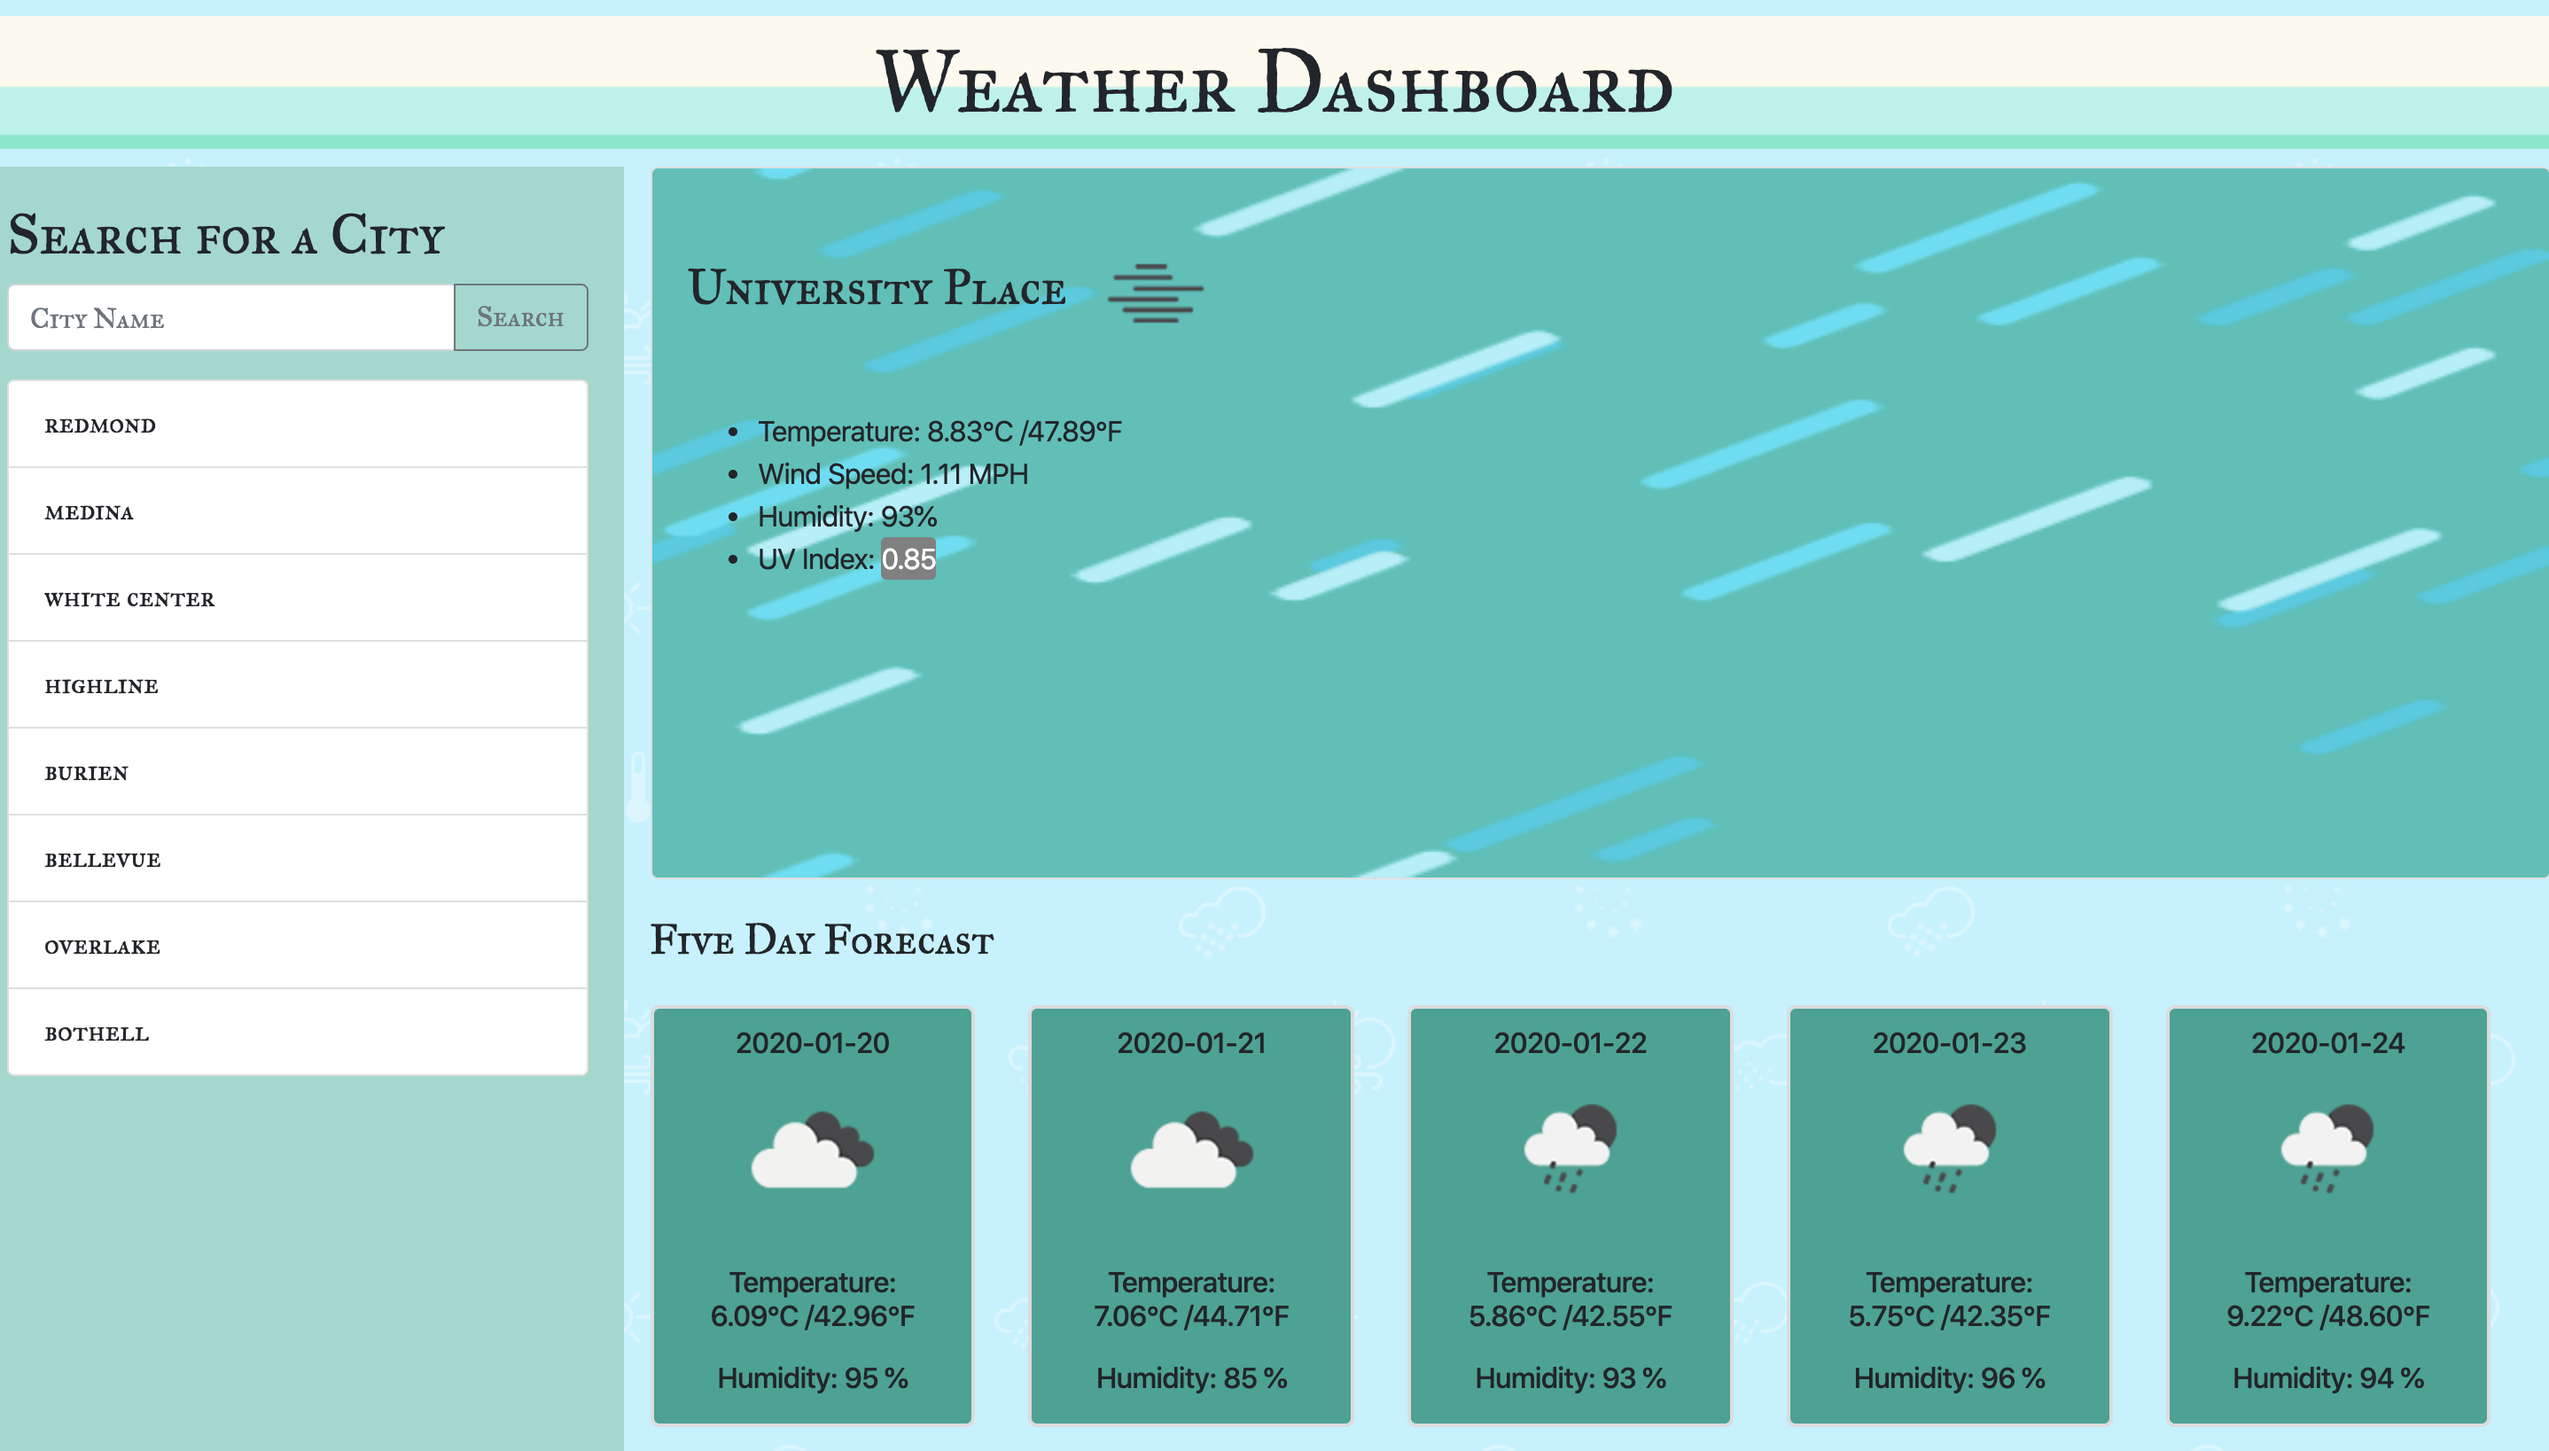
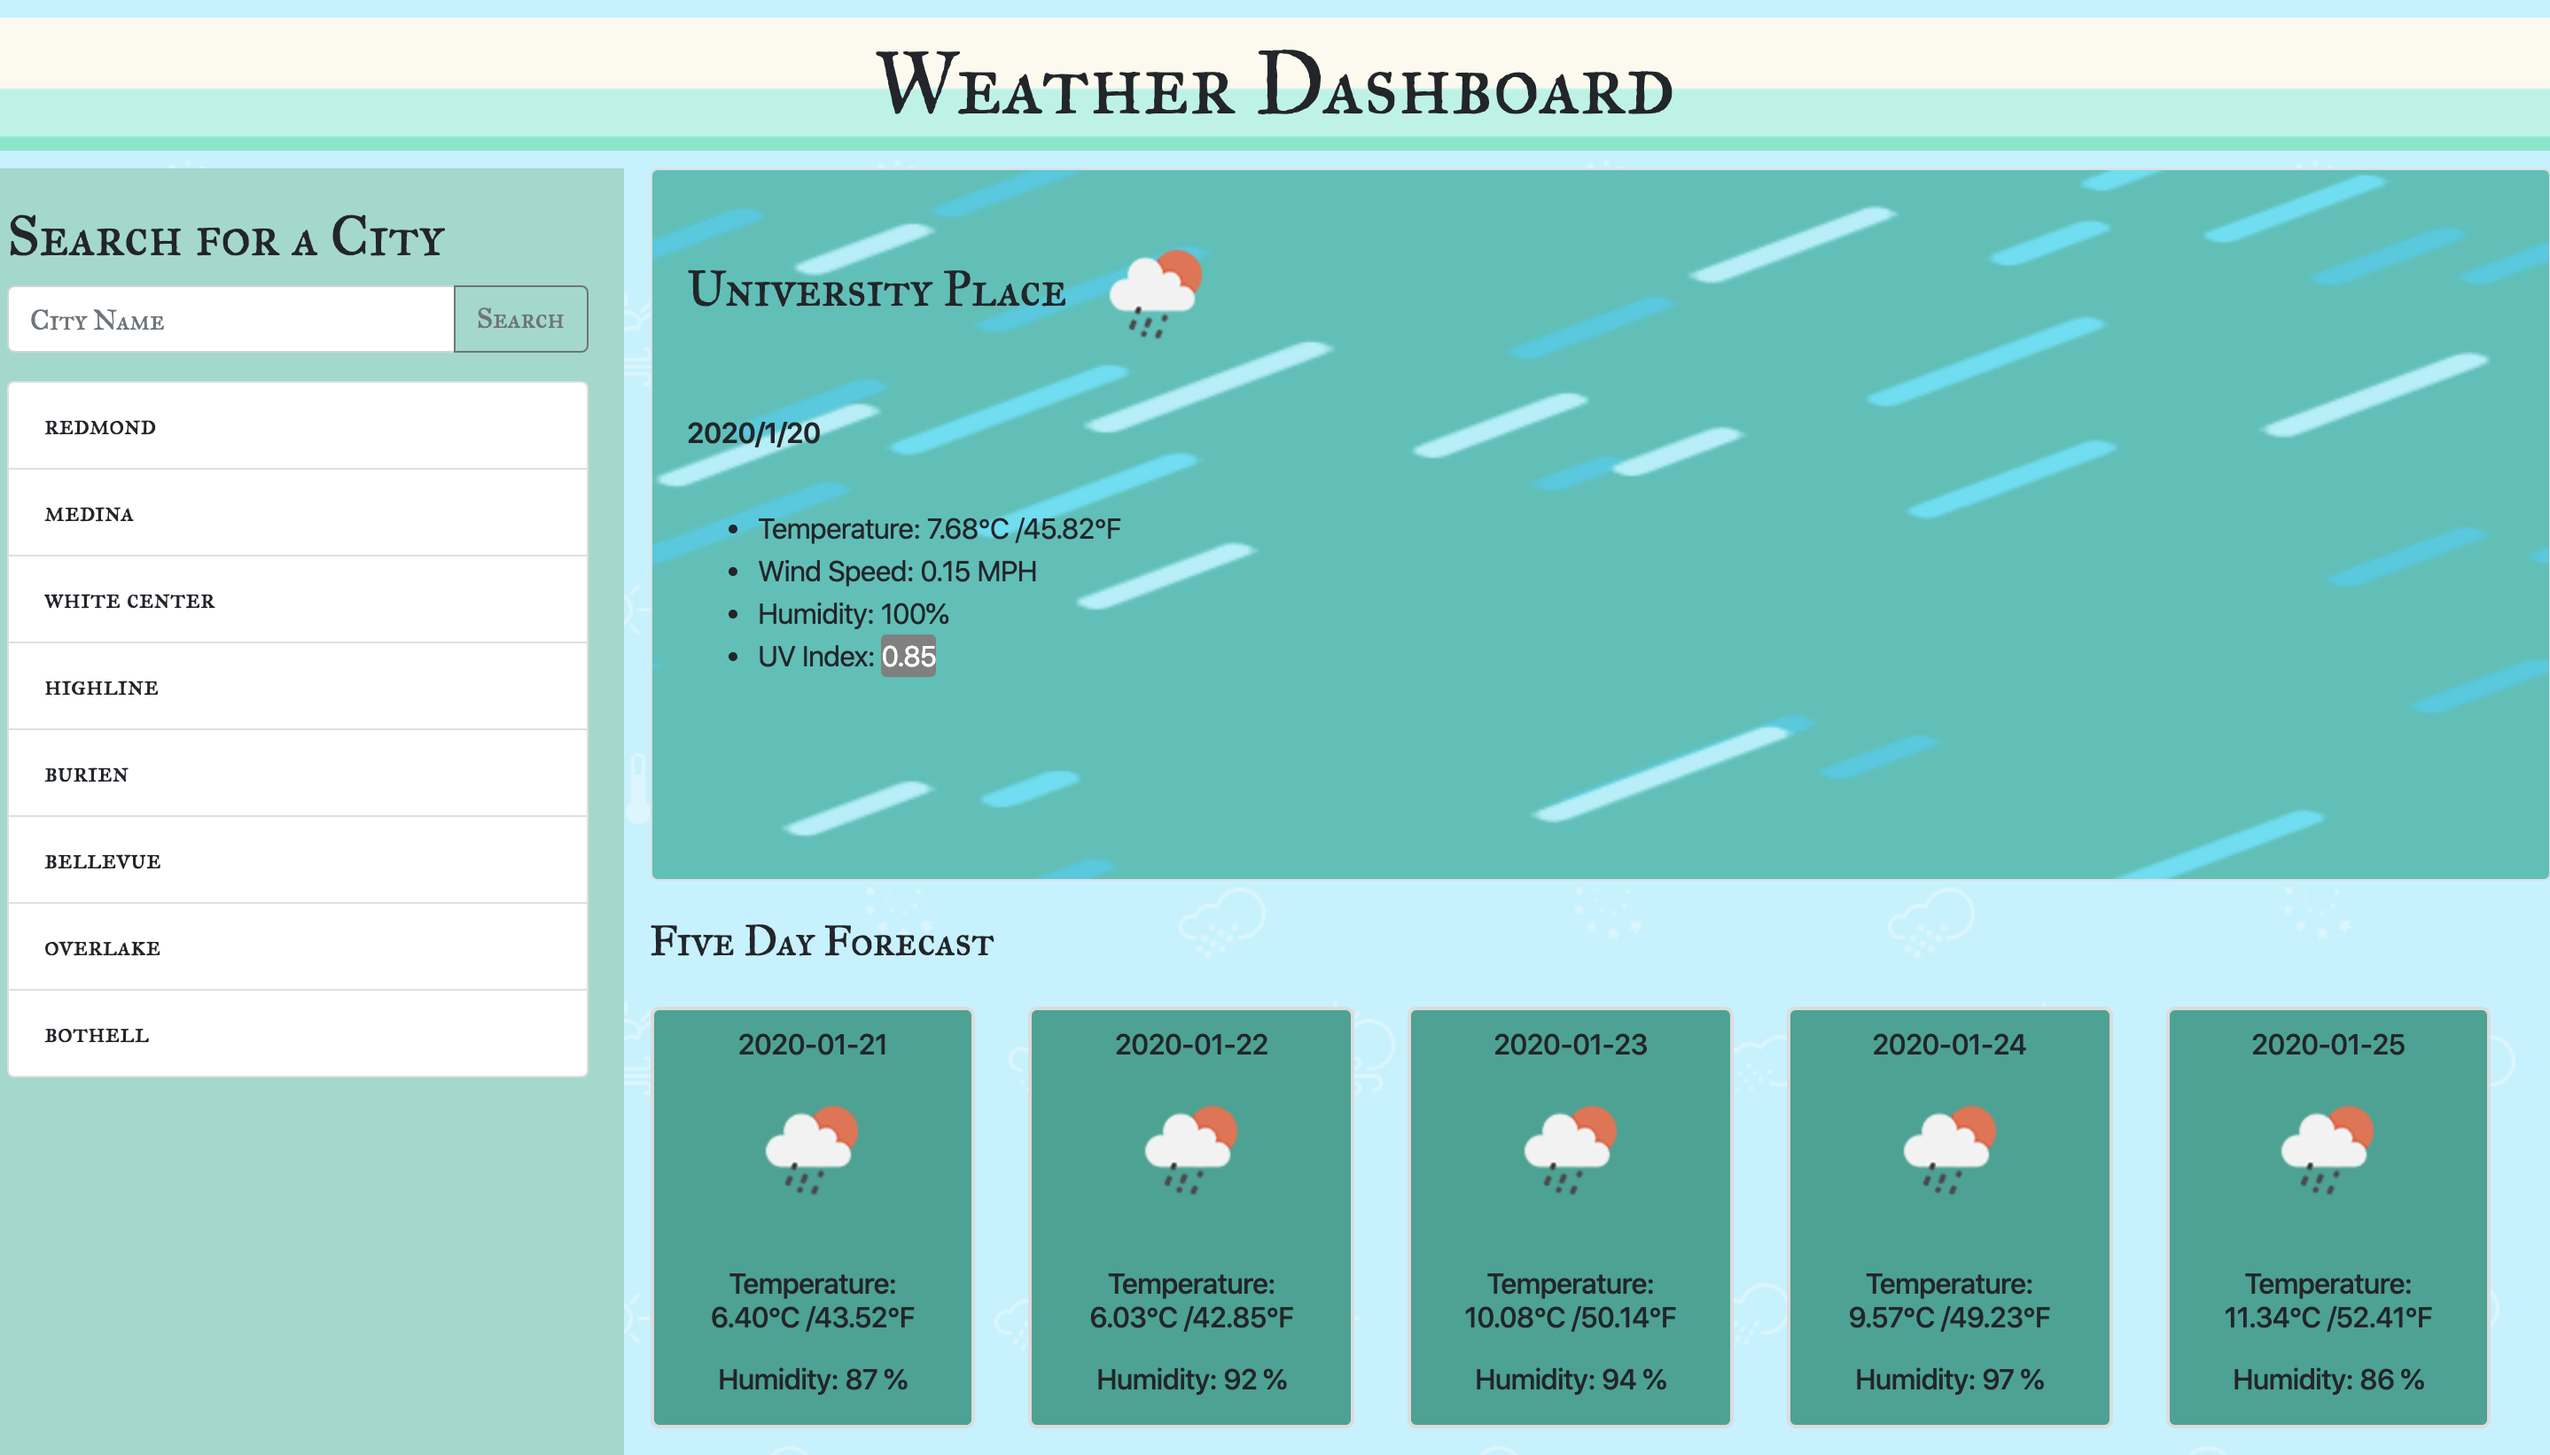
minor changes

diff --git a/Hope-it-doesn-t-snow-weatherforecast.js b/Hope-it-doesn-t-snow-weatherforecast.js
@@ -15,6 +15,8 @@ $(document).ready(function () {
             })
             .then(function (currentweatherData) {
                 var icon = currentweatherData.weather[0].icon;
+                var d = new Date();
+                var date = d.getFullYear() + "/" + (d.getMonth()+1) + "/" + d.getDate();
                 var tempInK = currentweatherData.main.temp; //temp in Kelvin
                 var tempInC = tempInK - 273.15; // temp in Celsius;
                 var tempInF = (tempInC * 9 / 5) + 32; // temp in Fahrenheit
@@ -32,6 +34,7 @@ $(document).ready(function () {
                         var UVI = currentUVI.value;
                         $('h3').empty().text(currentweatherData.name).css('font-family', " 'IM Fell Great Primer SC', serif");
                         $('h3').append($('<img>').attr('src', weatherIcon));
+                        $('.date').append(date);
                         $('.Temp').empty().text("Temperature: " + tempInC.toFixed(2) + String.fromCharCode(176) + "C /" + tempInF.toFixed(2)+ String.fromCharCode(176) + "F");
                         $('.Wind-speed').empty().text("Wind Speed: " + windSpeed + " MPH");
                         $('.Humidity').empty().text("Humidity: " + Humidity + "%");
@@ -45,8 +48,7 @@ $(document).ready(function () {
                         return response.json();
                     })
                     .then(function (fiveDayForecastData) {
-
-                        var fiveDayForecast = [fiveDayForecastData.list[0], fiveDayForecastData.list[8], fiveDayForecastData.list[16], fiveDayForecastData.list[24], fiveDayForecastData.list[32]];
+                        var fiveDayForecast = [fiveDayForecastData.list[8], fiveDayForecastData.list[16], fiveDayForecastData.list[24], fiveDayForecastData.list[32], fiveDayForecastData.list[39]];
                         for (var i = 0; i < 5; i++) {
                             var newDiv = $('<div>').attr('class', 'col-2');
                             $('#Five-Day-Forecast').append(newDiv);
@@ -88,7 +90,7 @@ $(document).ready(function () {
     }
 
 
-
+    
     $('button').click(function () {
         init();
         var cityName = $('input').val();
@@ -108,6 +110,7 @@ $(document).ready(function () {
         getData(Url, fiveDayForecastUrl);
     })
 
+    //show recent 10 search histories
     function showrecentsearch() {
         for (var i = 0; i < 10; i++) {
             if (localStorage.getItem('cityname' + i) != null) {

diff --git a/Hope-it-doesn-t-snow-weatherforecast.html b/Hope-it-doesn-t-snow-weatherforecast.html
@@ -42,6 +42,7 @@
                     <div class="card-img-overlay">
                         <h3 class="card-title"></h3>
                         <p class="card-text">
+                            <p class="date"></p>
                             <ul>
                                 <li class="Temp"></li>
                                 <li class="Wind-speed"></li>

diff --git a/Hope-it-doesn-t-snow-weatherforecast.css b/Hope-it-doesn-t-snow-weatherforecast.css
@@ -8,6 +8,10 @@ header{
     font-family: 'IM Fell Great Primer SC', serif;
     background-image: url(./source/canadian-dollar.png);
 }
+.date{
+    font-weight: 600;
+    margin-bottom: 30px;
+}
 .col-2{
     margin: 15px;
     text-align: left;
